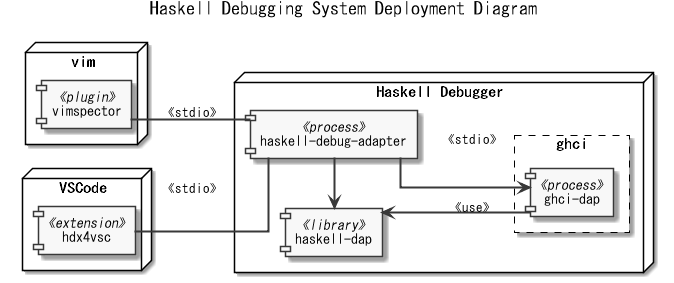
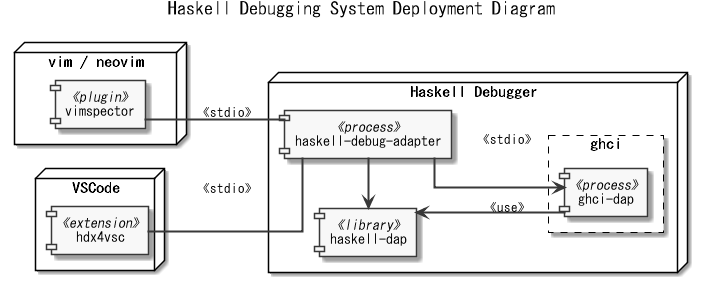
add neovim doc.

diff --git a/README.md b/README.md
@@ -5,13 +5,14 @@ This is an experimental.
 ## System Design
 ![101_deploy.png](https://raw.githubusercontent.com/phoityne/hdx4vim/master/docs/design/101_deploy.png)
 
+# vim
 ## Movie
 ![01_sample_debug.gif](https://raw.githubusercontent.com/phoityne/hdx4vim/master/docs/01_sample_debug.gif)
 
 
-# Setup
+## Setup
 
-## 1. Install vim-8.1
+### 1. Install vim-8.1
 ```
 # yum install python-devel python3 python3-devel
 #
@@ -27,7 +28,7 @@ This is an experimental.
 #
 ```
 
-## 2. Install vimspector
+### 2. Install vimspector
 @see : https://github.com/puremourning/vimspector
 ```
 $ cd
@@ -37,7 +38,7 @@ $ curl -L https://github.com/puremourning/vimspector/releases/download/769/linux
 $
 ```
 
-## 3. Create a stack project
+### 3. Create a stack project
 ```
 $ stack new sample rio
 $
@@ -46,7 +47,7 @@ $ stack test
 $
 ```
 
-## 4. Install haskell-debugger
+### 4. Install haskell-debugger
 
  Install [haskell-dap](https://hackage.haskell.org/package/haskell-dap), [ghci-dap](https://hackage.haskell.org/package/ghci-dap), [haskell-debug-adapter](https://hackage.haskell.org/package/haskell-debug-adapter) at once.
 
@@ -56,7 +57,7 @@ $ stack install haskell-dap ghci-dap haskell-debug-adapter
 $
 ```
 
-## 5. Prepare .vimspector.json
+### 5. Prepare .vimspector.json
 [see sample files.](https://github.com/phoityne/hdx4vim/tree/master/config)
 
 ```
@@ -100,7 +101,7 @@ $ cat .vimspector.json
 $
 ```
 
-## 6. Modify a bit
+### 6. Modify a bit
 ```
 $ pwd
 /home/phoityne/.vim/pack/vimspector/opt/vimspector/python3/vimspector
@@ -112,7 +113,7 @@ $ diff stack_trace.py.dist stack_trace.py
 $
 ```
 
-## 7. Run vim
+### 7. Run vim
 ```
 $ vi test/UtilSpec.hs
 
@@ -121,3 +122,97 @@ $ vi test/UtilSpec.hs
 :call vimspector#Launch()
 
 ```
+
+
+# neovim
+## Movie
+![03_neovim.gif](https://raw.githubusercontent.com/phoityne/hdx4vim/master/docs/03_neovim.gif)
+
+
+## Setup
+
+### 1. Install neovim
+
+#### download
+https://github.com/neovim/neovim/releases/download/nightly/nvim-linux64.tar.gz
+
+
+#### setting
+```
+# yum install -y python3-pip
+# pip3 install neovim
+
+:checkhealth
+## Python 3 provider (optional)
+  - INFO: `g:python3_host_prog` is not set.  Searching for python3 in the environment.
+  - INFO: Multiple python3 executables found.  Set `g:python3_host_prog` to avoid surprises.
+  - INFO: Executable: /bin/python3
+  - INFO: Other python executable: /usr/bin/python3
+  - INFO: Python version: 3.6.8
+  - INFO: pynvim version: 0.4.0
+  - OK: Latest pynvim is installed.
+```
+
+
+### 2. init.vim
+```
+$ cat ~/.config/nvim/init.vim
+let g:vimspector_enable_mappings = 'VISUAL_STUDIO'
+packadd vimspector
+python3 import vim
+
+$
+```
+
+### 3. Install vimspector
+```
+$ ls ~/.local/share/nvim/site/pack/vimspector/opt/vimspector/
+autoload  gadgets  plugin  python3
+
+$
+```
+
+#### Modify a bit
+```
+(python3/vimspector)
+$ diff stack_trace.py.dist stack_trace.py
+177c177
+<     if source.get( 'sourceReference', 0 ) > 0:
+---
+>     if (source.get( 'sourceReference', 0 ) is not None) and (source.get( 'sourceReference', 0 ) > 0):
+$
+```
+
+### 4. Create a stack project
+```
+$ stack new sample rio
+$
+$ cd sample
+$ stack test
+$
+```
+
+### 5. Install haskell-debugger
+
+ Install [haskell-dap](https://hackage.haskell.org/package/haskell-dap), [ghci-dap](https://hackage.haskell.org/package/ghci-dap), [haskell-debug-adapter](https://hackage.haskell.org/package/haskell-debug-adapter) at once.
+
+```
+$ stack install haskell-dap ghci-dap haskell-debug-adapter
+$
+```
+
+### 6. Prepare .vimspector.json in the project directory.
+[see sample files.](https://github.com/phoityne/hdx4vim/tree/master/config)
+
+
+
+### 7. Run vim
+```
+$ nvim test/UtilSpec.hs
+
+:call vimspector#ToggleBreakpoint()   -> F9
+:call vimspector#Launch()             -> F5
+:VimspectorRest                       -> exit
+
+```
+
